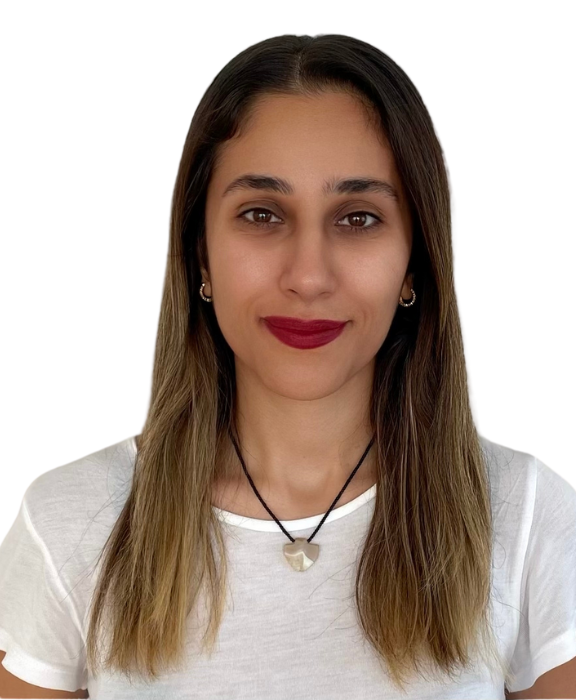
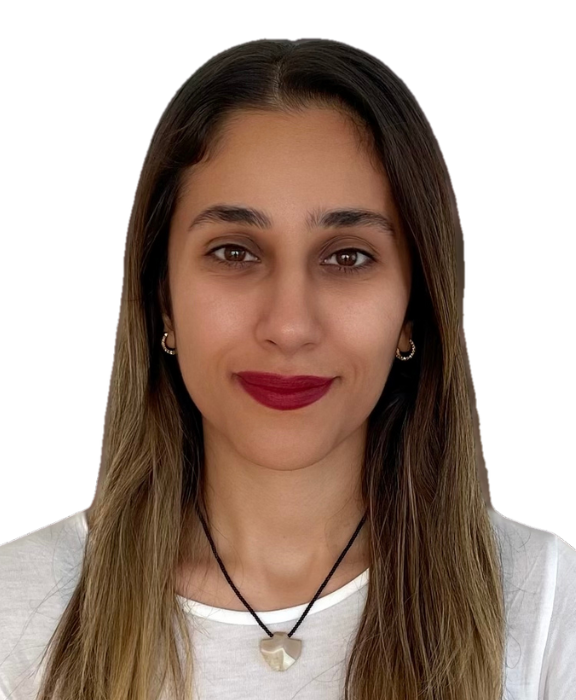
Done ui mock up of projects and footer

diff --git a/src/components/Header.vue b/src/components/Header.vue
@@ -2,7 +2,9 @@
 
 <template>
   <header class="py-6">
-    <div class="container mx-auto flex items-center justify-between">
+    <div
+      class="container mx-auto flex items-center justify-between relative z-10"
+    >
       <div class="text-xl font-semibold text-gray-800">
         <span>Somi Vista</span>
       </div>
@@ -12,7 +14,27 @@
         <a href="#footer" class="text-gray-600 hover:text-white">Contacts</a>
       </nav>
     </div>
+    <div class="absolute custom-style-svg z-0">
+      <svg
+        version="1.1"
+        xmlns="http://www.w3.org/2000/svg"
+        width="720"
+        height="629"
+      >
+        <path
+          d="M0 0 C200.97 0 401.94 0 609 0 C609.20625 78.91125 609.4125 157.8225 609.625 239.125 C609.76156006 276.52287842 609.76156006 276.52287842 609.90087891 314.67626953 C609.94604492 345.08178711 609.94604492 345.08178711 609.95443726 359.30831909 C609.96376753 369.26127703 610.0004688 379.21367447 610.05575562 389.16647339 C610.11942902 400.64601629 610.14835512 412.12502111 610.1344495 423.60474192 C610.12842722 429.47684555 610.1379459 435.34774671 610.19215131 441.21962953 C610.2409135 446.53422084 610.2431771 451.84676276 610.20901108 457.16144943 C610.2047846 459.07818274 610.21734818 460.99504601 610.24882579 462.91152549 C610.45723202 476.39746953 607.95199129 483.89594823 599 494 C597.4731575 495.91188314 595.95129135 497.8277667 594.4375 499.75 C590.77231361 504.15210217 586.97965576 508.42710642 583.12109375 512.66015625 C581.19213665 514.78804815 579.30963647 516.94720859 577.4375 519.125 C571.45666922 525.97401589 564.91014381 532.10570639 558 538 C557.11183594 538.77730469 556.22367188 539.55460938 555.30859375 540.35546875 C545.61657628 548.77666303 535.36597502 556.43301317 525 564 C524.1754834 564.60279785 523.3509668 565.2055957 522.50146484 565.82666016 C474.13512178 600.97511086 415.13611724 629.47643447 354.24951172 629.31567383 C351.76615117 629.31252051 349.28399536 629.3360593 346.80078125 629.36132812 C306.37820135 629.52069405 276.40213354 614.26023435 247.9375 586.125 C242.20728516 580.38182777 236.97547102 574.41445528 232 568 C230.9329823 566.64919375 229.86521487 565.29897954 228.796875 563.94921875 C222.20174264 555.57996261 215.82722526 547.08185962 209.62524414 538.41772461 C204.89905138 531.82369518 200.01086961 525.38062289 195 519 C194.33742188 518.154375 193.67484375 517.30875 192.9921875 516.4375 C147.29520684 458.71499811 95.46638597 442.0084332 24.76119995 428.62789917 C-59.02291863 412.76784037 -59.02291863 412.76784037 -84 389 C-84.84433594 388.24460937 -85.68867187 387.48921875 -86.55859375 386.7109375 C-100.89621634 373.31169812 -110.45777877 354.06601773 -111.37109375 334.3203125 C-111.64041799 320.76468935 -110.55074629 308.79290722 -106 296 C-105.74831055 295.28440918 -105.49662109 294.56881836 -105.23730469 293.83154297 C-99.69098552 278.48672661 -91.56673843 264.09536458 -82.22558594 250.75146484 C-80.76900999 248.66989595 -79.32653346 246.57878575 -77.8828125 244.48828125 C-71.44155329 235.19571811 -64.85195268 226.02757899 -58.11962891 216.9440918 C-24.78407022 171.90781762 1.25314896 127.35092896 1.1328125 69.55859375 C1.13424759 67.98695213 1.13424759 67.98695213 1.13571167 66.38356018 C1.1363871 64.18108052 1.13457769 61.97859879 1.13037109 59.77612305 C1.12505203 56.46984181 1.13031839 53.16369877 1.13671875 49.85742188 C1.13966067 39.39096459 1.04491391 28.96186119 0.34939575 18.51548767 C-0.0538835 12.29892664 0 6.28634548 0 0 Z "
+          fill="#FCC435"
+          transform="translate(111,0)"
+        />
+      </svg>
+    </div>
   </header>
 </template>
 
-<style scoped></style>
+<style scoped>
+.custom-style-svg {
+  top: -5rem;
+  right: 35rem;
+  width: 10rem;
+}
+</style>

diff --git a/src/components/Projects.vue b/src/components/Projects.vue
@@ -10,43 +10,43 @@ interface ProjectType {
 
 const fetchedProjects: ProjectType[] = [
   {
-    thumbnil: "/assets/projects/1.png",
-    title: "Dreamdays.ae",
+    thumbnil: "/assets/projects/Dreamdays.png",
+    title: "Dreamdays",
     description:
       "Dreamdays, since 2005, offers 400+ unique experiences and exceptional service, making it the UAE's fastest-growing gift experience company with 12-month vouchers.",
     link: "https://dreamdays.ae/",
   },
   {
-    thumbnil: "/assets/projects/2.png",
+    thumbnil: "/assets/projects/SNAPDAQ.png",
     title: "SNAPDAQ",
     description:
       "Snapdaq streamlines data acquisition from sensors with customizable configurations and smart triggers. It allows users to view signals on mobile devices and export data to spreadsheets for easy sharing.",
     link: "https://dreamdays.ae/",
   },
   {
-    thumbnil: "/assets/projects/3.png",
+    thumbnil: "/assets/projects/Kubak.png",
     title: "Kubak",
     description:
       "Kubak delivers diverse IT solutions globally, including e-business, enterprise apps, and custom software. They handle everything from design to support, tailored to client needs.",
     link: "https://www.kubak.co/",
   },
   {
-    thumbnil: "/assets/projects/4.png",
+    thumbnil: "/assets/projects/Goranee.png",
     title: "Goranee.ir",
     description:
       "Goranee.ir is an innovative project focused on enhancing user engagement through modern web technologies.",
     link: "https://goranee.ir/",
   },
   {
-    thumbnil: "/assets/projects/5.png",
+    thumbnil: "/assets/projects/Jin724.png",
     title: "jin724com",
     description:
       "Providing affordable, instant, and easy services; promoting the culture of self-care, improving and reforming lifestyle, and protecting the environment in pursuit of comfort and peace for humanity.",
     link: "https://jin724.com/",
   },
   {
-    thumbnil: "/assets/projects/6.png",
-    title: "Kurdcloud.ir",
+    thumbnil: "/assets/projects/Kurdcloud.png",
+    title: "Kurdcloud",
     description:
       "Kurdcloud Computing Development Company, with 8 years of experience, specializes in software development, web design, and cloud services.",
     link: "https://kurdcloud.ir/",
@@ -74,7 +74,7 @@ function isOdd(index: number): boolean {
           <img
             :src="project.thumbnil"
             alt="Project Image 1"
-            class="w-full lg:w-1/2 h-64 object-cover shadow-lg"
+            class="w-full lg:w-1/2 object-cover shadow-lg"
             :class="isOdd(index) ? 'rounded-r-lg lg:order-2' : 'rounded-l-lg'"
           />
           <div class="w-full lg:w-1/2">
@@ -87,6 +87,7 @@ function isOdd(index: number): boolean {
             <div class="flex justify-center">
               <a
                 :href="project.link"
+                target="_blank"
                 class="inline-block bg-transparent border border-yellow-500 text-yellow-500 font-semibold py-2 px-4 rounded hover:bg-yellow-500 hover:text-white transition-colors duration-300"
               >
                 View Project

diff --git a/src/components/Thumbnail.vue b/src/components/Thumbnail.vue
@@ -6,15 +6,18 @@
       class="container mx-auto px-6 lg:px-20 flex flex-col lg:flex-row items-center"
     >
       <div class="w-full lg:w-1/2 text-center lg:text-left mb-10 lg:mb-0">
-        <h2 class="text-yellow-500 text-lg font-semibold mb-2">
-          Front End Web Developer
-        </h2>
-        <h1 class="text-4xl font-bold text-gray-900 mb-4">
-          Hello, my name is Somayeh Roohani
+        <h1 class="text-yellow-500 text-4xl mb-12">Front End Web Developer</h1>
+        <h1 class="text-4xl font-bold text-gray-900 mb-8">
+          Hey! I’m Somayeh Roohani
         </h1>
         <p class="text-lg text-gray-600 mb-6">
-          Short text with details about you, what you do or your professional
-          career. You can add more information on the about page.
+          Results-driven Frontend Web Developer with extensive experience in
+          developing dynamic, user-friendly websites. Expert in front-end
+          technologies including NuxtJS and VueJS. Proven track record of
+          delivering high-quality projects for clients such as Dreamdays.ae.
+          Holds a Bachelor's degree in Information Technology Engineering.
+          Committed to continuous improvement, innovative solutions, and
+          effective collaboration.
         </p>
         <div>
           <a
@@ -32,29 +35,20 @@
           </a>
         </div>
       </div>
-      <div class="w-full lg:w-1/2 relative">
-        <div
-          class="absolute top-0 right-0 w-full h-full lg:w-72 lg:h-72 -mt-20 z-0"
-        >
-          <svg
-            xmlns="http://www.w3.org/2000/svg"
-            viewBox="0 0 800 800"
-            fill="#F9C74F"
-            class="w-full h-full"
-          >
-            <path
-              d="M480.5,800C359.1,800,269.2,735.3,178.4,668.7c-72.3-51.8-138.2-113.1-157.7-204C-7.9,310.1,56.3,145.8,181.9,69.9,284.3,9.3,412.5-2.1,516.9,30.4,617.8,62.1,690,145.2,752.7,234.8c58,83.2,105.4,184.5,46.8,280.3C756.1,633,652.7,800,480.5,800Z"
-            />
-          </svg>
-        </div>
-        <img
-          src="../assets/profile.png"
-          alt="Profile Image"
-          class="relative z-10 rounded-lg lg:max-w-sm mx-auto lg:mx-0"
-        />
+      <div class="relative z-10 custom-style-img">
+        <img src="../assets/profile.png" alt="Profile Image" class="" />
       </div>
     </div>
   </section>
 </template>
 
-<style scoped></style>
+<style scoped>
+.custom-style-img {
+  right: -15rem;
+  top: -2rem;
+  width: 25rem;
+  img {
+    border-radius: 7rem;
+  }
+}
+</style>

diff --git a/src/components/Footer.vue b/src/components/Footer.vue
@@ -1,7 +1,44 @@
 <script setup></script>
 
 <template>
-  <div id="footer">Footer</div>
+  <div class="mt-8">
+    <div class="flex justify-center space-x-4 mb-4">
+      <a
+        href="https://github.com/SomiVista"
+        target="_blank"
+        class="text-black text-2xl hover:text-gray-500"
+      >
+        <i class="fab fa-github"></i>
+      </a>
+      <a
+        href="https://www.linkedin.com/in/somivista/"
+        target="_blank"
+        class="text-black text-2xl hover:text-gray-500"
+      >
+        <i class="fab fa-linkedin"></i>
+      </a>
+      <a
+        href="https://www.youtube.com/@SomiVista"
+        target="_blank"
+        class="text-black text-2xl hover:text-gray-500"
+      >
+        <i class="fa-brands fa-youtube"></i>
+      </a>
+    </div>
+    <p class="text-center text-gray-500">&copy; Somi Vista 2024</p>
+    <svg
+      version="1.1"
+      xmlns="http://www.w3.org/2000/svg"
+      width="1600"
+      height="344"
+    >
+      <path
+        d="M0 0 C0 113.52 0 227.04 0 344 C-475.2 344 -950.4 344 -1600 344 C-1600 315.29 -1600 286.58 -1600 257 C-1399.80570652 237.44601939 -1399.80570652 237.44601939 -1381.58203125 229.0625 C-1376.13046004 226.54354799 -1370.72991365 223.93138481 -1365.33740234 221.28881836 C-1288.16383426 183.5535095 -1204.97960147 154.34223652 -908.07983398 189.14756775 C-816.34758461 218.0067423 -729.14527178 239.89082427 -574 199 C-572.15390137 198.34813721 -572.15390137 198.34813721 -570.27050781 197.68310547 C-531.21142746 183.78927914 -493.43264242 166.51082868 -455.82276917 149.1452179 C-443.29781673 143.3646551 -430.73691663 137.66326308 -418.1673584 131.98046875 C-415.92776861 130.96732399 -413.68894083 129.95250885 -411.45019531 128.9375 C-323.17986062 88.9429903 -232.03269555 57.68228416 -31.01171875 6.296875 C-29.72880573 5.98879819 -29.72880573 5.98879819 -28.41997528 5.6744976 C-25.99723355 5.09299438 -23.57422924 4.51259962 -21.15112305 3.93261719 C-20.4546765 3.76540318 -19.75822996 3.59818918 -19.04067898 3.42590809 C-17.02836973 2.94511829 -15.01447576 2.47162373 -13 2 C-12.21920389 1.81374306 -11.43840778 1.62748611 -10.63395119 1.43558502 C-9.84413038 1.25198174 -9.05430958 1.06837845 -8.24055481 0.87921143 C-7.16752216 0.6269322 -7.16752216 0.6269322 -6.07281208 0.36955643 C-4 0 -4 0 0 0 Z "
+        fill="#FDC435"
+        transform="translate(1600,0)"
+      />
+    </svg>
+  </div>
 </template>
 
 <style scoped></style>

diff --git a/src/components/ContactForm.vue b/src/components/ContactForm.vue
@@ -1,0 +1,60 @@
+<template>
+  <div class="p-8 rounded-lg w-full max-w-lg mx-auto">
+    <h2 class="text-2xl font-bold text-gray-800 mb-6 text-center">
+      Contact Me
+    </h2>
+    <form @submit.prevent="submitForm">
+      <div class="mb-4">
+        <label for="name" class="block text-gray-700">Name</label>
+        <input
+          type="text"
+          id="name"
+          v-model="form.name"
+          class="w-full mt-2 p-2 border border-gray-300 rounded"
+          required
+        />
+      </div>
+      <div class="mb-4">
+        <label for="email" class="block text-gray-700">Email</label>
+        <input
+          type="email"
+          id="email"
+          v-model="form.email"
+          class="w-full mt-2 p-2 border border-gray-300 rounded"
+          required
+        />
+      </div>
+      <div class="mb-6">
+        <label for="message" class="block text-gray-700">Message</label>
+        <textarea
+          id="message"
+          v-model="form.message"
+          class="w-full mt-2 p-2 border border-gray-300 rounded"
+          required
+        ></textarea>
+      </div>
+      <div class="flex justify-center">
+        <button
+          type="submit"
+          class="bg-yellow-500 text-white px-6 py-2 rounded hover:bg-yellow-600 transition duration-300 w-full"
+        >
+          Send
+        </button>
+      </div>
+    </form>
+  </div>
+</template>
+
+<script setup>
+import { reactive } from "vue";
+
+const form = reactive({
+  name: "",
+  email: "",
+  message: "",
+});
+
+const submitForm = () => {
+  console.log("Form submitted:", form);
+};
+</script>

diff --git a/src/App.vue b/src/App.vue
@@ -2,6 +2,7 @@
 import Header from "./components/Header.vue";
 import Thumbnail from "./components/Thumbnail.vue";
 import Projects from "./components/Projects.vue";
+import ContactForm from "./components/ContactForm.vue";
 import Footer from "./components/Footer.vue";
 </script>
 
@@ -10,6 +11,7 @@ import Footer from "./components/Footer.vue";
     <Header />
     <Thumbnail />
     <Projects />
+    <ContactForm />
     <Footer />
   </div>
 </template>

diff --git a/index.html b/index.html
@@ -6,6 +6,7 @@
   <link rel="icon" type="image/svg+xml" href="/vite.svg" />
   <meta name="viewport" content="width=device-width, initial-scale=1.0">
   <title>Somayeh Roohani Portfolio</title>
+  <link href="https://cdnjs.cloudflare.com/ajax/libs/font-awesome/6.0.0-beta3/css/all.min.css" rel="stylesheet" />
 </head>
 
 <body>
